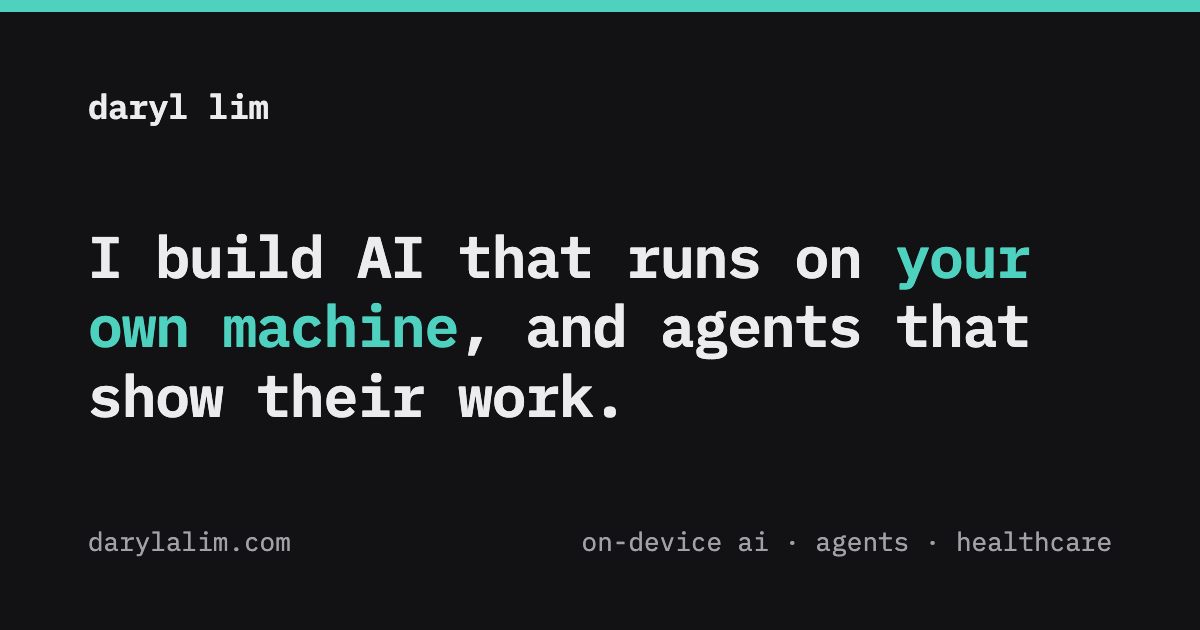
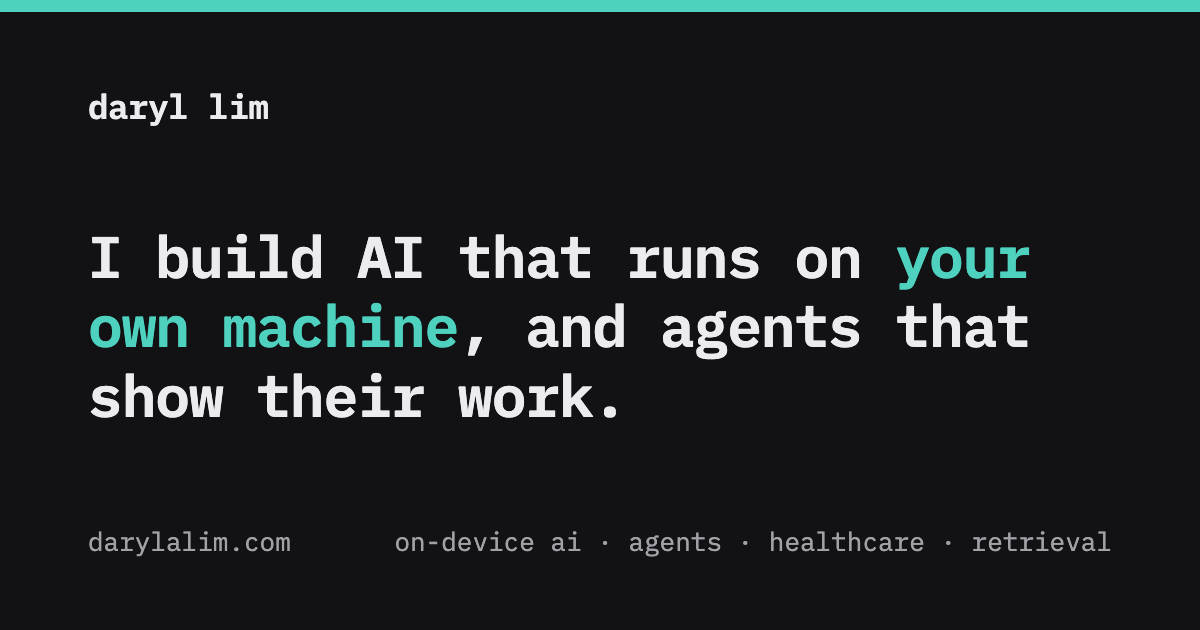
Add the Retrieval theme to the default social card
The card's footer listed three of the four project themes; the
Retrieval theme (RAG Pipeline) was missing. Re-rendered with npm run og.

Changed region(s): [[0.3083, 0.8444, 0.925, 0.8746]]

diff --git a/scripts/og-default.html b/scripts/og-default.html
@@ -72,7 +72,7 @@
     </h1>
     <div class="footer">
       <span>darylalim.com</span>
-      <span>on-device ai · agents · healthcare</span>
+      <span>on-device ai · agents · healthcare · retrieval</span>
     </div>
   </body>
 </html>
